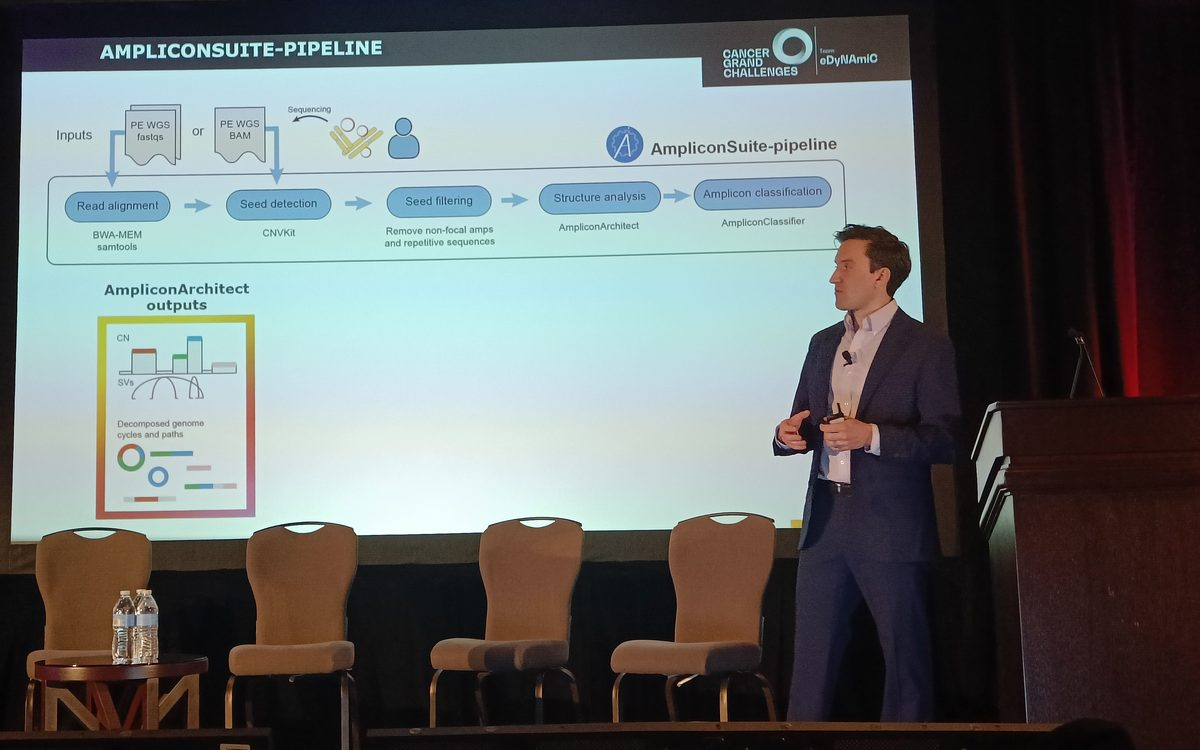
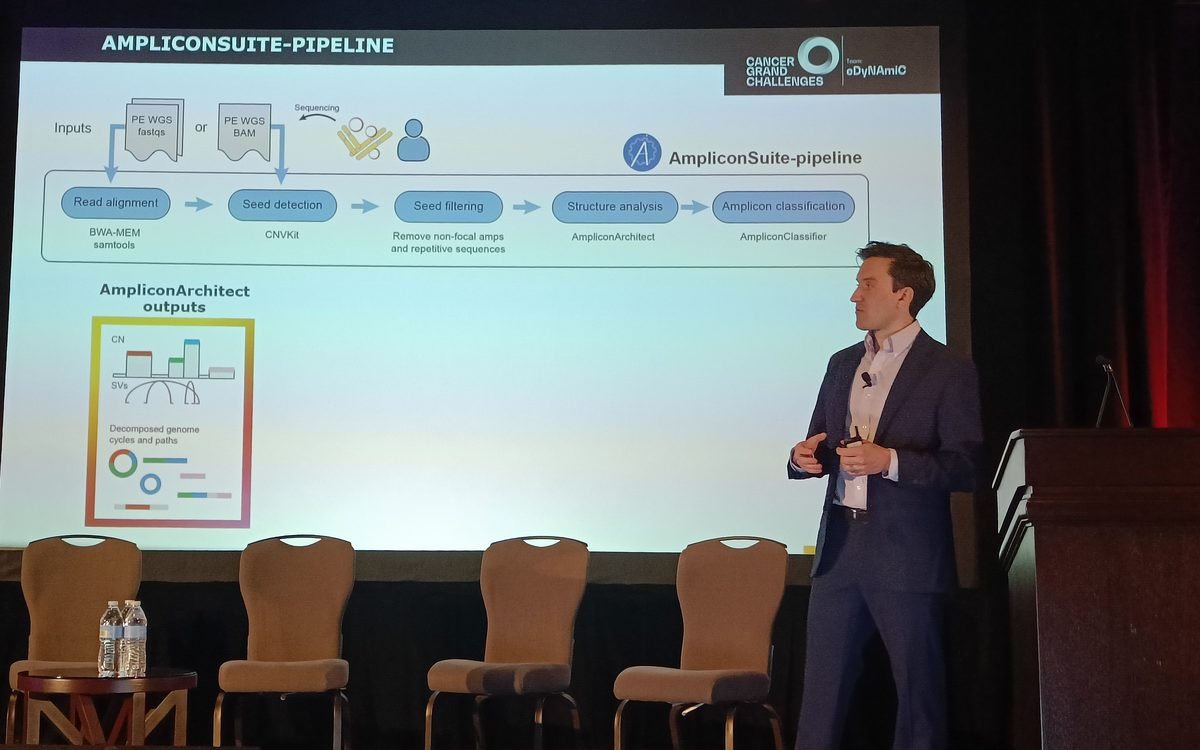
Level the talk photo; refined prototype back to original colours
Claude-Session: https://claude.ai/code/session_01C3qw3j9ZMtQRBTdrXtt4NC

Changed region(s): [[0.0, 0.0, 1.0, 1.0]]

diff --git a/prototypes/src/j-refined.html b/prototypes/src/j-refined.html
@@ -6,21 +6,21 @@
 <style>
 /* Layout: a one-screen landing with six doors; every inner page shares a sticky sidebar (home link, page nav, this page's sections) beside a reading column. */
 :root {
-  --bg: #fdfdfd;
-  --tile: #f3f4f5;
-  --fg: #1a1c1f;
-  --muted: #656a72;
-  --line: #e3e5e8;
-  --accent: #2f5b9a;
+  --bg: #fdfdfc;
+  --tile: #f3f4f2;
+  --fg: #191b1a;
+  --muted: #676d69;
+  --line: #e3e5e1;
+  --accent: #0f5e66;
   --serif: "Source Serif 4", Georgia, serif;
   --sans: "Hanken Grotesk", system-ui, -apple-system, "Segoe UI", sans-serif;
   --chart-line: var(--accent); --chart-grid: var(--line); --chart-text: var(--muted); --chart-ink: var(--fg); --chart-surface: var(--bg);
 }
 @media (prefers-color-scheme: dark) { :root:not([data-theme="light"]) {
-  --bg: #131416; --tile: #1c1e21; --fg: #e7e9ec; --muted: #9da3ab; --line: #2b2e33; --accent: #9bb8e3; color-scheme: dark;
+  --bg: #121413; --tile: #1b1e1d; --fg: #e8eae7; --muted: #9ba19d; --line: #2a2e2c; --accent: #6cc3c9; color-scheme: dark;
 } }
 :root[data-theme="dark"] {
-  --bg: #131416; --tile: #1c1e21; --fg: #e7e9ec; --muted: #9da3ab; --line: #2b2e33; --accent: #9bb8e3; color-scheme: dark;
+  --bg: #121413; --tile: #1b1e1d; --fg: #e8eae7; --muted: #9ba19d; --line: #2a2e2c; --accent: #6cc3c9; color-scheme: dark;
 }
 * { box-sizing: border-box; }
 body { background: var(--bg); color: var(--fg); font: 400 16px/1.6 var(--sans); -webkit-font-smoothing: antialiased; }
@@ -72,7 +72,8 @@ h1, h2 { font-family: var(--serif); font-weight: 600; letter-spacing: -.01em; te
 .page section { padding-top: 36px; scroll-margin-top: 16px; }
 .page h2 { font-size: 21px; margin: 0 0 12px; }
 .page p { margin: 0 0 12px; max-width: 42em; }
-.logo { float: right; width: 64px; height: 64px; margin: 4px 0 8px 24px; }
+.logo { float: right; margin: 2px 0 8px 24px; }
+.logo img { display: block; width: 96px; height: 96px; }
 
 .items { list-style: none; margin: 0; padding: 0; }
 .items li { padding: 12px 0; border-bottom: 1px solid var(--line); }
@@ -231,8 +232,8 @@ td a { color: var(--fg); }
     <!-- Software -->
     <article class="page" data-page="software" hidden>
       <h1>Software</h1>
-      <p class="lede"><img class="logo" src="{{LOGO_AS}}" alt="AmpliconSuite logo" width="64" height="64">AmpliconSuite is a set of 15 interoperable open-source tools for analysing focal amplifications, from raw reads to classified, visualised structures. I founded the project and lead its development.</p>
-      <p>The tools have been used in {{USAGE_STUDIES}} large-scale studies, {{USAGE_EXTERNAL}} of them by other groups, covering {{USAGE_TOTAL}} samples. The code is on <a href="https://github.com/AmpliconSuite">GitHub</a>.</p>
+      <p class="lede"><a class="logo" href="https://github.com/AmpliconSuite"><img src="{{LOGO_AS}}" alt="AmpliconSuite on GitHub" width="96" height="96"></a><a href="https://github.com/AmpliconSuite">AmpliconSuite</a> is a set of 15 interoperable open-source tools for analysing focal amplifications, from raw reads to classified, visualised structures. I founded the project and lead its development.</p>
+      <p>The tools have been used in {{USAGE_STUDIES}} large-scale studies, {{USAGE_EXTERNAL}} of them by other groups, covering {{USAGE_TOTAL}} samples.</p>
       <section id="tools" data-title="Tools">
         <h2>Tools</h2>
         <div class="tw"><table>

diff --git a/prototypes/j-refined.html b/prototypes/j-refined.html
@@ -11,21 +11,21 @@
 <style>
 /* Layout: a one-screen landing with six doors; every inner page shares a sticky sidebar (home link, page nav, this page's sections) beside a reading column. */
 :root {
-  --bg: #fdfdfd;
-  --tile: #f3f4f5;
-  --fg: #1a1c1f;
-  --muted: #656a72;
-  --line: #e3e5e8;
-  --accent: #2f5b9a;
+  --bg: #fdfdfc;
+  --tile: #f3f4f2;
+  --fg: #191b1a;
+  --muted: #676d69;
+  --line: #e3e5e1;
+  --accent: #0f5e66;
   --serif: "Source Serif 4", Georgia, serif;
   --sans: "Hanken Grotesk", system-ui, -apple-system, "Segoe UI", sans-serif;
   --chart-line: var(--accent); --chart-grid: var(--line); --chart-text: var(--muted); --chart-ink: var(--fg); --chart-surface: var(--bg);
 }
 @media (prefers-color-scheme: dark) { :root:not([data-theme="light"]) {
-  --bg: #131416; --tile: #1c1e21; --fg: #e7e9ec; --muted: #9da3ab; --line: #2b2e33; --accent: #9bb8e3; color-scheme: dark;
+  --bg: #121413; --tile: #1b1e1d; --fg: #e8eae7; --muted: #9ba19d; --line: #2a2e2c; --accent: #6cc3c9; color-scheme: dark;
 } }
 :root[data-theme="dark"] {
-  --bg: #131416; --tile: #1c1e21; --fg: #e7e9ec; --muted: #9da3ab; --line: #2b2e33; --accent: #9bb8e3; color-scheme: dark;
+  --bg: #121413; --tile: #1b1e1d; --fg: #e8eae7; --muted: #9ba19d; --line: #2a2e2c; --accent: #6cc3c9; color-scheme: dark;
 }
 * { box-sizing: border-box; }
 body { background: var(--bg); color: var(--fg); font: 400 16px/1.6 var(--sans); -webkit-font-smoothing: antialiased; }
@@ -77,7 +77,8 @@ h1, h2 { font-family: var(--serif); font-weight: 600; letter-spacing: -.01em; te
 .page section { padding-top: 36px; scroll-margin-top: 16px; }
 .page h2 { font-size: 21px; margin: 0 0 12px; }
 .page p { margin: 0 0 12px; max-width: 42em; }
-.logo { float: right; width: 64px; height: 64px; margin: 4px 0 8px 24px; }
+.logo { float: right; margin: 2px 0 8px 24px; }
+.logo img { display: block; width: 96px; height: 96px; }
 
 .items { list-style: none; margin: 0; padding: 0; }
 .items li { padding: 12px 0; border-bottom: 1px solid var(--line); }
@@ -239,8 +240,8 @@ td a { color: var(--fg); }
     <!-- Software -->
     <article class="page" data-page="software" hidden>
       <h1>Software</h1>
-      <p class="lede"><img class="logo" src="../images/ampliconsuite-logo.png" alt="AmpliconSuite logo" width="64" height="64">AmpliconSuite is a set of 15 interoperable open-source tools for analysing focal amplifications, from raw reads to classified, visualised structures. I founded the project and lead its development.</p>
-      <p>The tools have been used in 55 large-scale studies, 39 of them by other groups, covering 50,626 samples. The code is on <a href="https://github.com/AmpliconSuite">GitHub</a>.</p>
+      <p class="lede"><a class="logo" href="https://github.com/AmpliconSuite"><img src="../images/ampliconsuite-logo.png" alt="AmpliconSuite on GitHub" width="96" height="96"></a><a href="https://github.com/AmpliconSuite">AmpliconSuite</a> is a set of 15 interoperable open-source tools for analysing focal amplifications, from raw reads to classified, visualised structures. I founded the project and lead its development.</p>
+      <p>The tools have been used in 55 large-scale studies, 39 of them by other groups, covering 50,626 samples.</p>
       <section id="tools" data-title="Tools">
         <h2>Tools</h2>
         <div class="tw"><table>
